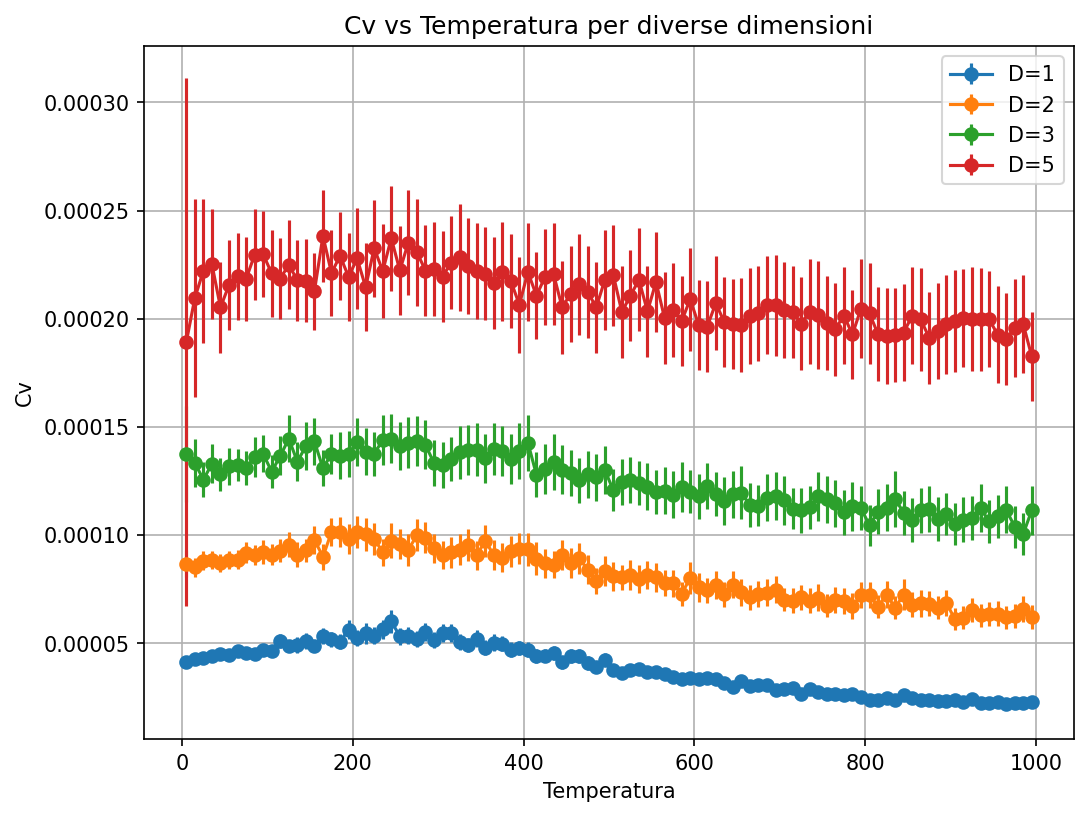
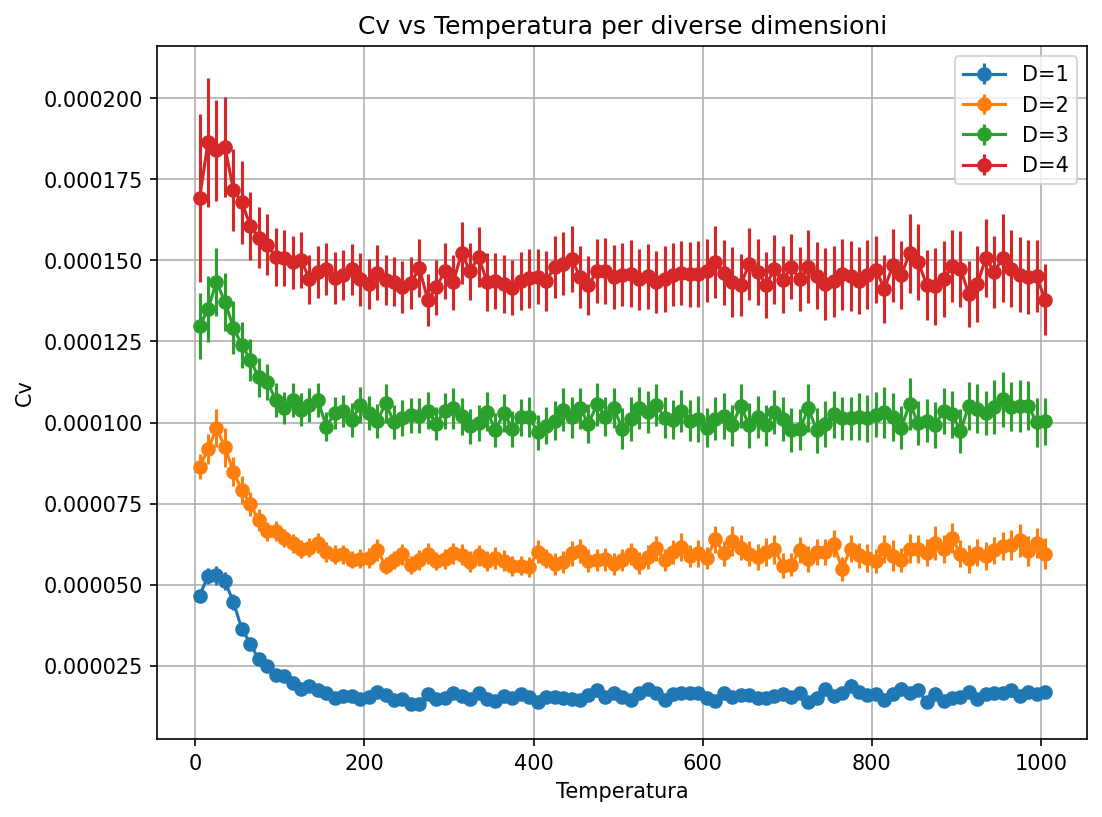
tau estimatation with sokal, runed with 300000 step

diff --git a/source/plot.py b/source/plot.py
@@ -10,11 +10,10 @@ REPORT_DIR = os.path.join(os.path.dirname(__file__), "..", "report")
 def _ensure_report_dir():
     os.makedirs(REPORT_DIR, exist_ok=True)
 
-def plot_thermalization_energies(trajectory1, trajectory_1, trajectoryR, T, D, n_steps, V: Callable):
+def plot_thermalization_energies(trajectory1,trajectoryR, T, D, n_steps, V: Callable):
     _ensure_report_dir()
     plt.figure(figsize=(8, 6))
     plt.plot(jnp.arange(n_steps), jax.vmap(V)(trajectory1), label="Inizializzazione a 1")
-    plt.plot(jnp.arange(n_steps), jax.vmap(V)(trajectory_1), label="Inizializzazione a -1")
     plt.plot(jnp.arange(n_steps), jax.vmap(V)(trajectoryR), label="Inizializzazione random")
     plt.xlabel("Passi di Metropolis")
     plt.ylabel("Energia")
@@ -74,21 +73,83 @@ def plot_obs_D_T(results, dimensions, observable, error=None):
         print(f"Grafico salvato in: {filepath}")
         plt.close()
 
-def plot_trajectory_x_relative_freq(results, D, Ts):
-    #subplot of the histogram of the relative frequency of x[0] for different temperatures, for a specific D
+def plot_trajectory_x_relative_freq(results, Ds, Ts):
     _ensure_report_dir()
-    plt.figure(figsize=(12, 8))
-    for i, T in enumerate(Ts):
-        plt.subplot(2, 3, i+1)
-        trajectory_x = results[D]["trajectory_x"][results[D]["T"].index(T)]
-        plt.hist(trajectory_x, bins=50, 
-         weights=np.ones(len(trajectory_x)) / len(trajectory_x))
-        plt.xlabel("x[0]")
-        plt.ylabel("Frequenza relativa")
-        plt.title(f"D={D}, T={T}")
-        plt.grid()
+    n_rows = len(Ds)
+    n_cols = len(Ts)
+    fig, axes = plt.subplots(n_rows, n_cols, figsize=(4*n_cols, 3*n_rows),
+                             sharex=False, sharey=False)  # scale indipendenti
+    # gestione caso n_rows=1 o n_cols=1
+    if n_rows == 1:
+        axes = axes[np.newaxis, :]
+    if n_cols == 1:
+        axes = axes[:, np.newaxis]
+
+    for i, D in enumerate(Ds):
+        for j, T in enumerate(Ts):
+            trajectory_x = results[D]["trajectory_x"][results[D]["T"].index(T)]
+            axes[i, j].hist(trajectory_x, bins=30, density=True)
+            axes[i, j].set_title(f"D={D}, T={T}")
+            axes[i, j].set_xlabel("x[0]")
+            axes[i, j].set_ylabel("Freq. relativa")
+            axes[i, j].grid()
+
+    fig.suptitle("Distribuzione di x[0] per diverse dimensioni e temperature", fontsize=13)
     plt.tight_layout()
-    filename = f"trajectory_x_relative_freq_D{D}.png"
+    filename = f"trajectory_x_relative_freq.png"
+    filepath = os.path.join(REPORT_DIR, filename)
+    plt.savefig(filepath, dpi=150, bbox_inches="tight")
+    print(f"Grafico salvato in: {filepath}")
+    plt.close()
+
+def plot_trajectory_x_t(results, Ds, Ts):
+    _ensure_report_dir()
+    n_rows = len(Ds)
+    n_cols = len(Ts)
+    fig, axes = plt.subplots(n_rows, n_cols, figsize=(4*n_cols, 3*n_rows),
+                             sharex=True, sharey=False)  # stesso asse x (passi), y libero
+    if n_rows == 1:
+        axes = axes[np.newaxis, :]
+    if n_cols == 1:
+        axes = axes[:, np.newaxis]
+
+    for i, D in enumerate(Ds):
+        for j, T in enumerate(Ts):
+            trajectory_x = results[D]["trajectory_x"][results[D]["T"].index(T)]
+            axes[i, j].plot(trajectory_x)
+            axes[i, j].set_title(f"D={D}, T={T}")  # titolo completo su ogni subplot
+            axes[i, j].set_xlabel("Passi di Metropolis")
+            axes[i, j].set_ylabel("x[0]")
+            axes[i, j].grid()
+
+    fig.suptitle("Traiettoria di x[0] per diverse dimensioni e temperature", fontsize=13)
+    plt.tight_layout()
+    filename = "trajectory_x_t.png"
+    filepath = os.path.join(REPORT_DIR, filename)
+    plt.savefig(filepath, dpi=150, bbox_inches="tight")
+    print(f"Grafico salvato in: {filepath}")
+    plt.close()
+
+def plot_tau(results, dimensions):
+    _ensure_report_dir()
+    plt.figure(figsize=(8,6))
+
+    #plot skipping the first 3 temperatures to avoid the low T regime where tau is very large and dominates the plot
+    for D in dimensions:
+        plt.plot(
+                results[D]["T"][3:],
+                results[D]["tau_x"][3:],
+                marker='o',
+                label=f"D={D}"
+            )
+
+    plt.xlabel("Temperatura")
+    plt.ylabel("Tau")
+    plt.title("Tau vs Temperatura per diverse dimensioni")
+    plt.legend()
+    plt.grid()
+
+    filename = "Tau_vs_T.png"
     filepath = os.path.join(REPORT_DIR, filename)
     plt.savefig(filepath, dpi=150, bbox_inches="tight")
     print(f"Grafico salvato in: {filepath}")

diff --git a/source/main.py b/source/main.py
@@ -7,25 +7,26 @@ from tqdm import tqdm
 
 
 def main():
-    dimensions   = [1, 2, 3, 5]
-    # temperatures (K) from 5 to 1005 (one T every 10K) K is Kelvin
-    temperatures = jnp.arange(5, 1005, 10)
+    dimensions   = [1, 2, 3, 4]
+    # temperatures (K) from 5 to 1015 (one T every 10K) K is Kelvin
+    temperatures = jnp.arange(5, 1015, 10)
     # k_b in eV/K
     kb = 8.617333262145e-5
     #MCMC parameters
-    n_thermalization = 1500
-    n_steps = 150000
+    n_thermalization = 1000
+    n_steps = 300000
     step_size = 0.1
     # potential parameters
-    a = 0.1
+    a = 0.01
     b = 1.0
     V = obs.make_potential(a, b)
     #blocking parameters
-    tollerance = 0.10 # 11% of the mean value of the observable, in log scale
-    window = 3 # number of consecutive values to consider for the plateau detection, in log scale
+    tollerance = 0.10 # 10% of the mean value of the observable, in log scale
+    window = 4 # number of consecutive values to consider for the plateau detection, in log scale
+    c = 5 # Sokal method parameter for tau estimation, tau_int(x, c)
 
     #thermalization example for 3 configurations
-    D_demo, T_demo = 5, 100
+    D_demo, T_demo = dimensions[-1], temperatures[20]
     key = jax.random.PRNGKey(0)
  
     # factory per generatori e simulazione (compilati una volta per D_demo)
@@ -34,14 +35,11 @@ def main():
     x1, key = metro.make_config_generator(D_demo, "ones")(key)
     trajectory1, _, _, _ = run_therm_demo(key, T_demo, step_size, x1)
  
-    x2, key = metro.make_config_generator(D_demo, "-ones")(key)
-    trajectory_1, _, _, _ = run_therm_demo(key, T_demo, step_size, x2)
- 
     x3, key = metro.make_config_generator(D_demo, "normal")(key)
     trajectoryR, _, _, _ = run_therm_demo(key, T_demo, step_size, x3)
  
     plot.plot_thermalization_energies(
-        trajectory1, trajectory_1, trajectoryR,
+        trajectory1, trajectoryR,
         T_demo, D_demo, n_thermalization, V )
 
     #simulations for different dimensions and temperatures
@@ -54,7 +52,8 @@ def main():
             "Cv": [],
             "Cv_err": [],
             "acceptance": [],
-            "trajectory_x": []
+            "trajectory_x": [],
+            "tau_x": []
         }
 
         gen_config = metro.make_config_generator(D, "normal")
@@ -75,16 +74,23 @@ def main():
             # x is the last configuration of the trajectory, used as initial configuration for the next temperature
 
             # append observables to results
-            obs.append_observables(results, D, T, trajectory, acceptance_rate, V, tollerance,window, kb)
-
+            obs.append_observables(results, D, T, trajectory, acceptance_rate, V, tollerance,window, c, kb)
+    
     # plot results
     plot.plot_obs_D_T(results, dimensions, "E_mean", error=True)
     plot.plot_obs_D_T(results, dimensions, "Cv", error=True)
     plot.plot_obs_D_T(results, dimensions, "acceptance")
+    Ds = [1, 4]
+    plot.plot_tau(results, Ds)
 
-    Ts =[temperatures[0],temperatures[4], temperatures[6], temperatures[15], temperatures[55], temperatures[-1]]
-    plot.plot_trajectory_x_relative_freq(results, 2, Ts)
-    plot.plot_trajectory_x_relative_freq(results, 5, Ts)
+    #plotting Ts
+    Ts =[temperatures[0], temperatures[20], temperatures[80], temperatures[-1]]
+    
+    plot.plot_trajectory_x_relative_freq(results, dimensions, Ts)
 
+    #plotting Ts
+    Ts =[temperatures[0], temperatures[20], temperatures[-1]]
+    plot.plot_trajectory_x_t(results, Ds, Ts)
+    
 if __name__ == "__main__":
     main()

diff --git a/source/observable.py b/source/observable.py
@@ -74,7 +74,27 @@ def blocking_analysis(data, window, threshold, obs="_"):
     sigma_mean = jnp.sqrt(R_plateau * varX / M)
     return sigma_mean, tau
 
-def append_observables(results,D: int,T,trajectory,acceptance_rate,V: Callable,tolerance: float = 0.01, window: int = 5, kb: float = 8.617333262145e-5):
+def autocorr_fft(x):
+    x = x - np.mean(x)
+    N = len(x)
+    f = np.fft.fft(x, n=2*N)
+    acf = np.fft.ifft(f * np.conjugate(f))[:N].real
+    acf /= acf[0]
+    return acf
+
+#  tau with Sokal method
+def tau_int(x, c=5):
+    acf = autocorr_fft(x)
+    tau = 0.5
+    for t in range(1, len(acf)):
+        if acf[t] <= 0:
+            break
+        tau += acf[t]
+        if t > c * tau:
+            break
+    return tau
+
+def append_observables(results,D: int,T,trajectory,acceptance_rate,V: Callable,tolerance: float = 0.01, window: int = 5,c: int = 5, kb: float = 8.617333262145e-5):
     energies = np.array(jax.vmap(lambda x: V(x))(trajectory))
     energies2 = energies**2
 
@@ -88,6 +108,9 @@ def append_observables(results,D: int,T,trajectory,acceptance_rate,V: Callable,t
     # error propagation for Cv = (E2_mean - E_mean^2) / (k_b * T^2)
     Cv_err = (E2_mean_err + 2 * E_mean * E_mean_err) / (kb * T**2)
 
+    # tau for x[0]
+    tau_x = tau_int(trajectory[:, 0],c)
+
     results[D]["T"].append(T)
     results[D]["E_mean"].append(E_mean)
     results[D]["E_mean_err"].append(E_mean_err)
@@ -95,5 +118,6 @@ def append_observables(results,D: int,T,trajectory,acceptance_rate,V: Callable,t
     results[D]["Cv_err"].append(Cv_err)
     results[D]["acceptance"].append(acceptance_rate)
     results[D]["trajectory_x"].append(trajectory[:, 0])
+    results[D]["tau_x"].append(tau_x)
 
     

diff --git a/source/metropolis.py b/source/metropolis.py
@@ -6,8 +6,6 @@ def make_config_generator(D: int, init_type: str = "uniform") -> Callable[[jax.A
     def _generate_config(key: jax.Array) -> tuple[jax.Array, jax.Array]:
         if init_type == "ones":
             return jnp.ones(D), key
-        elif init_type == "-ones":
-            return -jnp.ones(D), key
         elif init_type == "normal":
             key, subkey = jax.random.split(key)
             return jax.random.normal(subkey, shape=(D,)), key
